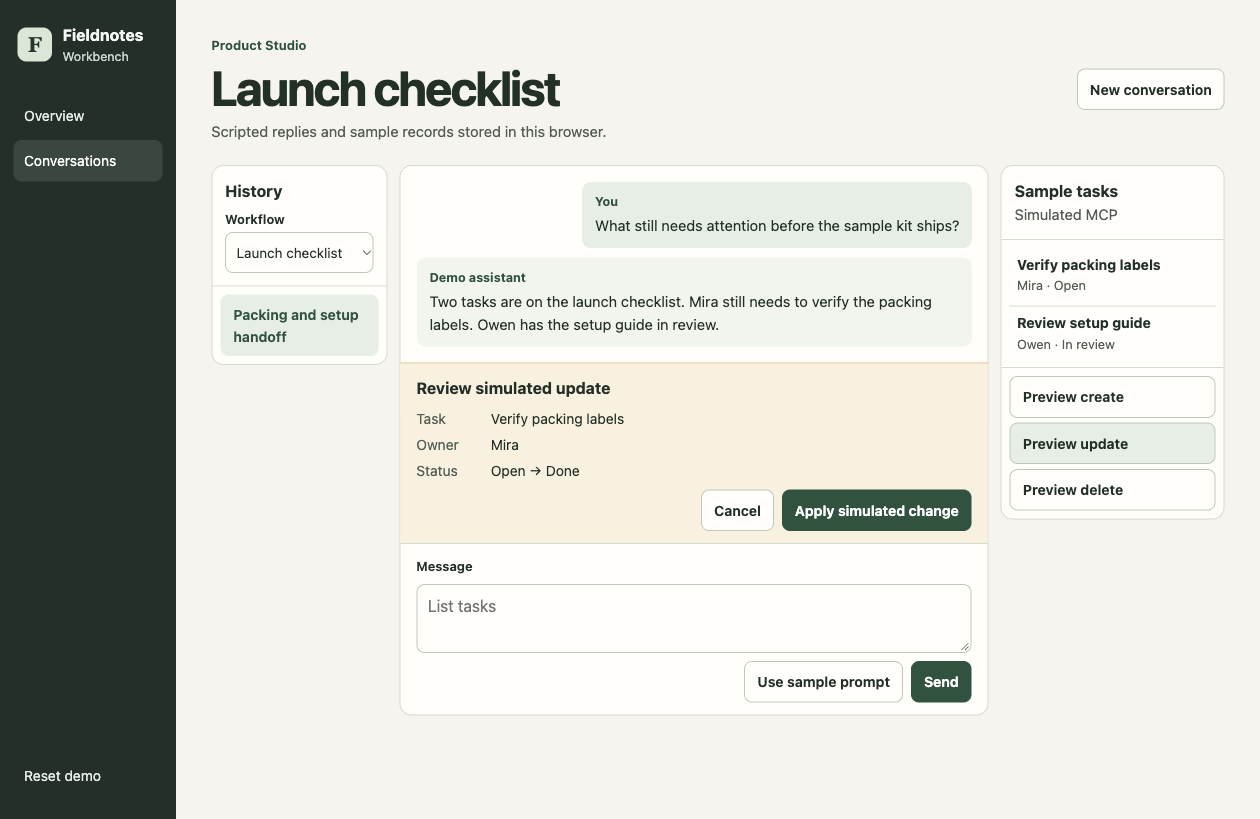
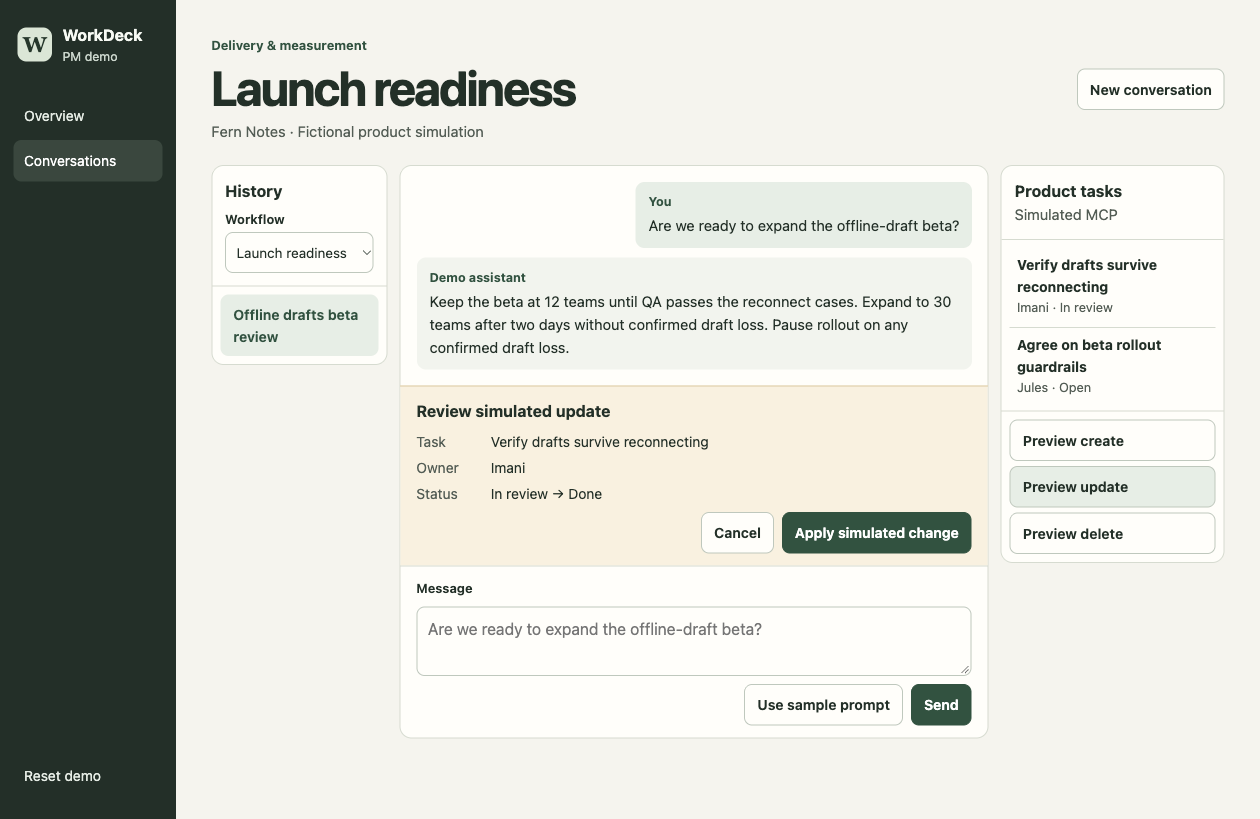
Rename to WorkDeck and introduce product manager simulation

diff --git a/workdeck/assets/app.js b/workdeck/assets/app.js
@@ -1,37 +1,92 @@
 "use strict";
 
 const groups = [
-  { name: "Product Studio", description: "Plan releases and collect research.", workflows: [
-    { id: "launch", name: "Launch checklist", description: "Review shipment and setup tasks." },
-    { id: "research", name: "Product research", description: "Track questions for the next prototype." },
-  ] },
-  { name: "Operations", description: "Keep routine internal work on track.", workflows: [
-    { id: "commerce", name: "Store review", description: "Review catalog and trial orders." },
-    { id: "service", name: "Service upkeep", description: "Track routine service checks." },
-  ] },
+  {
+    name: "Discovery & strategy",
+    description: "Turn customer evidence into a product decision.",
+    workflows: [
+      {
+        id: "discovery",
+        name: "Customer discovery",
+        description: "Summarize interview patterns and open questions.",
+        prompt: "What did we learn about offline note-taking?",
+        answer: "Six of nine interviewees copied notes to another app when they lost signal. Four mentioned losing track of the latest draft. Test draft recovery with occasional users before treating this as a broader pattern.",
+        followUp: "Recruit three occasional offline users",
+      },
+      {
+        id: "prioritization",
+        name: "Prioritization",
+        description: "Compare scope against the next milestone.",
+        prompt: "What should we prioritize for the beta?",
+        answer: "Prioritize offline drafts and recovery. They address the clearest interview signal and fit one sprint. Defer shared editing offline until the team tests conflict recovery.",
+        followUp: "Record why shared editing is deferred",
+      },
+    ],
+  },
+  {
+    name: "Delivery & measurement",
+    description: "Plan the beta, decide whether to ship, and check results.",
+    workflows: [
+      {
+        id: "sprint",
+        name: "Sprint planning",
+        description: "Clarify scope, owners, and acceptance criteria.",
+        prompt: "What should the next sprint deliver?",
+        answer: "Ship local draft save and recovery in the next sprint. A draft should reopen after force-quit in airplane mode. Keep simultaneous edits out of scope until conflict handling is designed.",
+        followUp: "Add a force-quit recovery example",
+      },
+      {
+        id: "launch-readiness",
+        name: "Launch readiness",
+        description: "Review release blockers and rollout guardrails.",
+        prompt: "Are we ready to expand the offline-draft beta?",
+        answer: "Keep the beta at 12 teams until QA passes the reconnect cases. Expand to 30 teams after two days without confirmed draft loss. Pause rollout on any confirmed draft loss.",
+        followUp: "Schedule the 30-team rollout review",
+      },
+      {
+        id: "metrics",
+        name: "Metrics review",
+        description: "Check adoption and draft recovery after launch.",
+        prompt: "What does the first beta cohort tell us?",
+        answer: "In the sample cohort, 19 of 46 participants saved an offline draft. Of 27 drafts opened again after reconnecting, 25 restored without intervention. Inspect the two remaining cases before drawing a reliability conclusion.",
+        followUp: "Review the two unresolved recovery events",
+      },
+    ],
+  },
 ];
 
 const seed = {
   records: [
-    { id: "t-17", workflow: "launch", title: "Verify packing labels", owner: "Mira", status: "Open" },
-    { id: "t-24", workflow: "launch", title: "Review setup guide", owner: "Owen", status: "In review" },
-    { id: "t-31", workflow: "research", title: "Draft shelf-fit interview questions", owner: "Mira", status: "Open" },
-    { id: "t-44", workflow: "commerce", title: "Check trial order receipt", owner: "Nell", status: "In review" },
-    { id: "t-58", workflow: "service", title: "Schedule backup restore rehearsal", owner: "Owen", status: "Open" },
+    { id: "pm-11", workflow: "discovery", title: "Tag interview evidence by use case", owner: "Imani", status: "Done" },
+    { id: "pm-12", workflow: "discovery", title: "Validate draft recovery with occasional users", owner: "Jules", status: "Open" },
+    { id: "pm-21", workflow: "prioritization", title: "Compare offline drafts with shared editing", owner: "Jules", status: "In review" },
+    { id: "pm-22", workflow: "prioritization", title: "Estimate the cost of conflict recovery", owner: "Remy", status: "Open" },
+    { id: "pm-31", workflow: "sprint", title: "Define draft recovery acceptance criteria", owner: "Jules", status: "In review" },
+    { id: "pm-32", workflow: "sprint", title: "Build the local draft recovery path", owner: "Remy", status: "Open" },
+    { id: "pm-41", workflow: "launch-readiness", title: "Verify drafts survive reconnecting", owner: "Imani", status: "In review" },
+    { id: "pm-42", workflow: "launch-readiness", title: "Agree on beta rollout guardrails", owner: "Jules", status: "Open" },
+    { id: "pm-51", workflow: "metrics", title: "Audit the draft restored event", owner: "Remy", status: "In review" },
+    { id: "pm-52", workflow: "metrics", title: "Review first-cohort activation", owner: "Jules", status: "Open" },
   ],
-  chats: [
-    { id: "c-7", workflow: "launch", title: "Packing and setup handoff", messages: [
-      { author: "user", text: "What still needs attention before the sample kit ships?" },
-      { author: "demo", text: "Two tasks are on the launch checklist. Mira still needs to verify the packing labels. Owen has the setup guide in review." },
-    ] },
-    { id: "c-8", workflow: "research", title: "Prototype interview prep", messages: [
-      { author: "user", text: "Where did we leave the prototype interviews?" },
-      { author: "demo", text: "Mira is drafting shelf-fit questions for the foldable desk tray. Review those questions before scheduling interviews." },
-    ] },
-  ],
+  chats: groups.flatMap((group) => group.workflows.map((workflow) => ({
+    id: `seed-${workflow.id}`,
+    workflow: workflow.id,
+    title: {
+      discovery: "Interview synthesis",
+      prioritization: "Beta scope decision",
+      sprint: "Sprint scope and criteria",
+      "launch-readiness": "Offline drafts beta review",
+      metrics: "First cohort readout",
+    }[workflow.id],
+    messages: [
+      { author: "user", text: workflow.prompt },
+      { author: "demo", text: workflow.answer },
+    ],
+  }))),
 };
 
-const storageKey = "fieldnotes-workbench-demo-v1";
+const storageKey = "workdeck-pm-demo-v1";
+const defaultWorkflowId = "launch-readiness";
 const workflows = groups.flatMap((group) => group.workflows.map((workflow) => ({ ...workflow, group: group.name })));
 const workflowById = new Map(workflows.map((workflow) => [workflow.id, workflow]));
 const byId = (id) => document.getElementById(id);
@@ -39,7 +94,7 @@ const messageInput = byId("message");
 const resetDialog = byId("reset-dialog");
 
 let state = load();
-let workflowId = "launch";
+let workflowId = defaultWorkflowId;
 let chatId = null;
 let proposal = null;
 let proposalTrigger = null;
@@ -146,6 +201,7 @@ function renderConversation() {
   byId("scope").textContent = workflow.group;
   byId("chat-heading").textContent = workflow.name;
   byId("workflow-picker").value = workflowId;
+  messageInput.placeholder = workflow.prompt;
   byId("empty-chat").hidden = Boolean(chat?.messages.length);
   byId("messages").replaceChildren(...(chat?.messages ?? []).map((message) => {
     const isUser = message.author === "user";
@@ -208,7 +264,7 @@ function renderProposal() {
 function stage(kind, trigger) {
   const existing = visibleRecords()[0];
   const record = kind === "create"
-    ? { id: crypto.randomUUID(), workflow: workflowId, title: "Review follow-up notes", owner: "Nell", status: "Open" }
+    ? { id: crypto.randomUUID(), workflow: workflowId, title: workflowById.get(workflowId).followUp, owner: "Jules", status: "Open" }
     : existing;
   if (!record) return;
   proposal = { kind, record, nextStatus: record.status === "Done" ? "In review" : "Done" };
@@ -224,8 +280,11 @@ function scrollThread() {
 }
 
 function reply(text) {
-  const command = text.toLowerCase().replace(/[.!?]+$/, "").trim();
-  if (command !== "list tasks") return "This demo supports the prompt “List tasks.” Use the buttons in Sample tasks to preview a task change.";
+  const normalize = (value) => value.toLowerCase().replace(/[.!?]+$/, "").trim();
+  const workflow = workflowById.get(workflowId);
+  const command = normalize(text);
+  if (command === normalize(workflow.prompt)) return workflow.answer;
+  if (command !== "list tasks") return `Try “${workflow.prompt}” or “List tasks”. Use Product tasks to preview a change.`;
   const records = visibleRecords();
   if (!records.length) return "This workflow has no sample tasks.";
   return records.map((record) => `• ${record.title} — ${record.owner}, ${record.status}`).join("\n");
@@ -255,7 +314,7 @@ byId("workflow-picker").addEventListener("change", (event) => {
   openConversation(id, latestChat(id));
 });
 byId("suggestion").addEventListener("click", () => {
-  messageInput.value = "List tasks";
+  messageInput.value = workflowById.get(workflowId).prompt;
   messageInput.focus();
 });
 byId("composer").addEventListener("submit", (event) => {
@@ -299,7 +358,7 @@ byId("reset").addEventListener("click", () => {
 resetDialog.addEventListener("close", () => {
   if (resetDialog.returnValue !== "reset") return;
   state = structuredClone(seed);
-  workflowId = "launch";
+  workflowId = defaultWorkflowId;
   chatId = null;
   const saved = save();
   openOverview();

diff --git a/workdeck/assets/index.html b/workdeck/assets/index.html
@@ -5,7 +5,7 @@
   <meta name="viewport" content="width=device-width, initial-scale=1">
   <meta http-equiv="Content-Security-Policy" content="default-src 'self'; connect-src 'none'; object-src 'none'; base-uri 'none'; form-action 'none'">
   <meta name="color-scheme" content="light">
-  <title>Fieldnotes Workbench · Codex Skill Demo</title>
+  <title>WorkDeck · Product Manager Demo</title>
   <link rel="stylesheet" href="./style.css">
   <script defer src="./app.js"></script>
 </head>
@@ -13,21 +13,21 @@
   <a class="skip" href="#main">Skip to workspace</a>
   <div class="shell">
     <aside class="rail">
-      <div class="identity"><span class="mark" aria-hidden="true">F</span><div><strong>Fieldnotes</strong><span>Workbench</span></div></div>
+      <div class="identity"><span class="mark" aria-hidden="true">W</span><div><strong>WorkDeck</strong><span>PM demo</span></div></div>
       <nav aria-label="Workspace"><button id="overview-nav" aria-current="page">Overview</button><button id="chat-nav">Conversations</button></nav>
       <button id="reset" class="reset">Reset demo</button>
     </aside>
     <main id="main">
       <section id="overview" aria-labelledby="overview-title">
         <header class="page-head">
-          <div><h1 id="overview-title" tabindex="-1">Workflows</h1><p>Start a conversation or revisit an earlier decision.</p></div>
+          <div><h1 id="overview-title" tabindex="-1">Fern Notes</h1><p>Practice product decisions for a fictional team notes app.</p></div>
           <span class="badge">Simulation</span>
         </header>
         <div id="workflows" class="workflow-grid"></div>
       </section>
       <section id="conversation" aria-labelledby="chat-heading" hidden>
         <header class="page-head">
-          <div><p id="scope" class="scope"></p><h1 id="chat-heading" tabindex="-1"></h1><p>Scripted replies and sample records stored in this browser.</p></div>
+          <div><p id="scope" class="scope"></p><h1 id="chat-heading" tabindex="-1"></h1><p>Fern Notes · Fictional product simulation</p></div>
           <button id="new-chat" class="button">New conversation</button>
         </header>
         <div class="chat-grid">
@@ -38,7 +38,7 @@
           <div class="chat frame">
             <div class="thread" id="thread">
               <ul id="messages" aria-label="Conversation messages"></ul>
-              <div id="empty-chat"><h2>What are you working on?</h2><p>Try <strong>List tasks</strong> to see the sample records.</p></div>
+              <div id="empty-chat"><h2>Start a product discussion</h2><p>Use the sample prompt or type <strong>List tasks</strong>.</p></div>
             </div>
             <section id="proposal" class="proposal" aria-labelledby="proposal-heading" hidden>
               <h3 id="proposal-heading" tabindex="-1"></h3>
@@ -51,7 +51,7 @@
             </form>
           </div>
           <aside class="records frame" aria-labelledby="records-heading">
-            <header><h2 id="records-heading">Sample tasks</h2><p>Simulated MCP</p></header>
+            <header><h2 id="records-heading">Product tasks</h2><p>Simulated MCP</p></header>
             <ul id="records-list"></ul>
             <div id="record-actions" class="record-actions"></div>
           </aside>

diff --git a/README.md b/README.md
@@ -1,38 +1,42 @@
-# Codex Workbench Demo
+# WorkDeck
 
-A local workbench for repeatable projects. Start a conversation from a workflow, reopen its history, and review task changes before applying them.
+A local Codex skill and product manager simulation. Start a conversation from a workflow, reopen its history, and review simulated task changes before applying them.
 
-![Fieldnotes demo showing workflow history, a conversation, and a simulated task update](preview.png)
+![WorkDeck showing the fictional Fern Notes beta decision and an example task update](preview.png)
 
-## Run the demo
+## Try the product manager demo
 
-Clone the repo and serve the bundled assets with Python 3.
+Fern Notes is a fictional team notes app. Walk through five decisions about its offline drafts beta.
+
+| Workflow | Example decision |
+| --- | --- |
+| Customer discovery | Decide which interview patterns need another round of evidence. |
+| Prioritization | Compare offline drafts with shared editing for the beta. |
+| Sprint planning | Define acceptance criteria for recovering a draft after a force-quit. |
+| Launch readiness | Decide when to expand the beta and when to pause it. |
+| Metrics review | Interpret first-cohort adoption and investigate failed recoveries. |
+
+Clone or download this repository. From its root, run:
 
 ```bash
-git clone https://github.com/rolee5293/codex-workbench-demo.git
-cd codex-workbench-demo
-python3 -m http.server 4387 --bind 127.0.0.1 --directory local-workbench-demo/assets
+python3 -m http.server 4387 --bind 127.0.0.1 --directory workdeck/assets
 ```
 
-Open [localhost:4387](http://127.0.0.1:4387). Select **Launch checklist** and send **List tasks**. Use **History** to reopen a conversation. Try **Preview update**, then apply or cancel it.
+Open [localhost:4387](http://127.0.0.1:4387). Choose **Launch readiness** and send the sample prompt. Open **History** to revisit a conversation. Try **Preview update** to see the existing and proposed task status.
 
-All records are fictional. The browser uses scripted replies and simulated task operations. It stores state in local storage for this origin. **Reset demo** restores the starting records. The demo needs Python 3 and a modern browser. It requires no account, API key, or network service.
+The demo uses fictional product data, scripted replies, and simulated MCP operations. State is stored in the current browser. **Reset demo** restores the sample data. You only need Python 3 and a modern browser.
 
-## Use it as a Codex skill
+## Install the Codex skill
 
-Copy the `local-workbench-demo` directory into your project's `.agents/skills` folder.
+From this repository's root, copy `workdeck` into the destination project's `.agents/skills/` directory. When the destination is this repository, run:
 
 ```bash
 mkdir -p .agents/skills
-cp -R local-workbench-demo .agents/skills/
+cp -R workdeck .agents/skills/
 ```
 
-Open Codex in that project and ask: “Use `$local-workbench-demo` to launch the demo and show me how a task update is reviewed.” The skill can also help adapt a copy of the template. [Codex Skills documentation](https://developers.openai.com/codex/skills)
+Open Codex in the destination project and ask “Use `$workdeck` to walk me through the launch readiness demo.” [Codex Skills documentation](https://developers.openai.com/codex/skills)
 
-## What to adapt
-
-- Edit workflow names, sample records, and scripted replies in [app.js](local-workbench-demo/assets/app.js).
-- Edit the token values and component styles in [style.css](local-workbench-demo/assets/style.css).
-- Use a local backend for any real account integration, and keep the review step for proposed changes.
+Adapt the fiction, workflows, and reply scripts in [app.js](workdeck/assets/app.js). The layout lives in [style.css](workdeck/assets/style.css).
 
 [MIT License](LICENSE)

diff --git a/workdeck/SKILL.md b/workdeck/SKILL.md
@@ -1,0 +1,22 @@
+---
+name: workdeck
+description: Run or adapt the WorkDeck product manager simulation with five product workflows, categorized conversation history, and previewable simulated MCP changes. Use when a user asks to launch WorkDeck or try its product manager walkthrough.
+---
+
+# WorkDeck
+
+The browser demo is in [assets/](assets/). It uses a fictional product called Fern Notes and runs entirely in the browser.
+
+## Launch and demonstrate
+
+1. Serve the skill's `assets/` directory on loopback. From the skill folder run `python3 -m http.server 4387 --bind 127.0.0.1 --directory assets`. Choose another local port if 4387 is already in use.
+2. Share the local URL. In the demo, open **Launch readiness** and choose **Use sample prompt**, then **Send**. Select **History** on the overview to reopen a seeded product decision.
+3. In **Product tasks**, preview a create, update, or delete. Compare the preview with the current sample record. Confirm or cancel, then check the task list.
+
+WorkDeck uses scripted answers and simulated task changes. The browser stores the demo state for the current origin. **Reset demo** restores the seed records and conversations.
+
+## Adapt the template
+
+Copy `assets/` into the destination workspace before editing. Update the product scenario, workflow prompts, and seed records together in `assets/app.js`. Keep workflow IDs stable across label changes when existing conversations should remain available. Use fictional people, records, and conversations in public demos.
+
+For an explicitly requested live integration, use the documented service interface in a local backend. Keep credentials out of the frontend. Before applying a change, show the affected record and fields. Verify the result after applying it.
